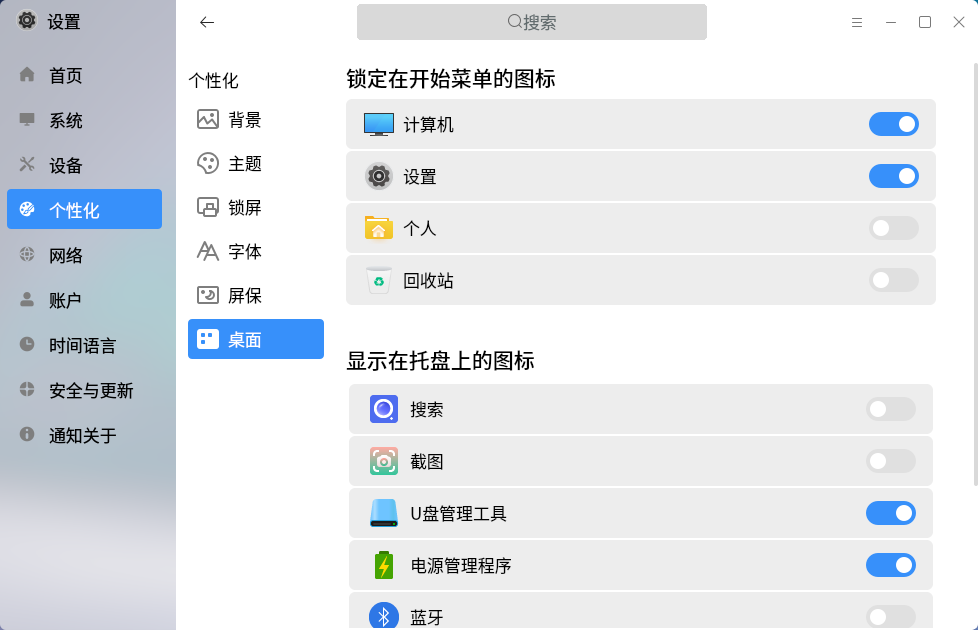
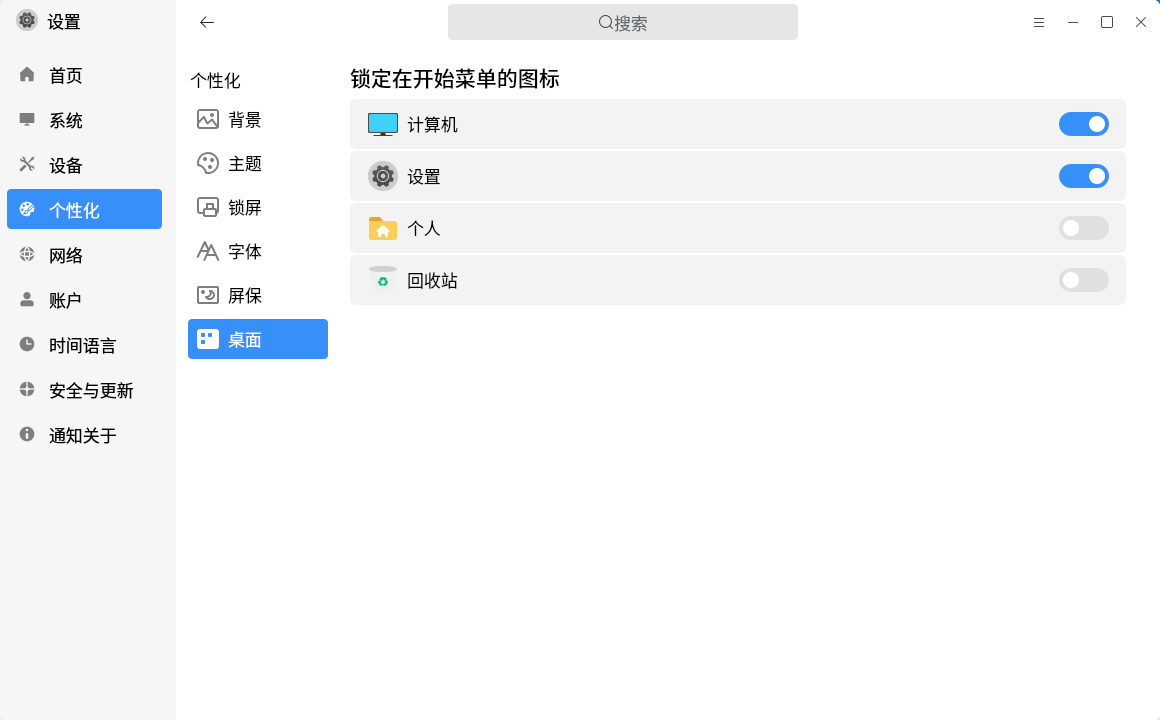
fix(User Manual): User Manual
Description: User Manual

Log: 更新部分用户手册的截图和内容

diff --git a/data/zh_CN/index.md b/data/zh_CN/index.md
@@ -42,13 +42,13 @@
 ![图 4 默认应用-big](image/default.png)
 
 ### 电 源
-- 提供平衡、节能、自定义模式可选
+- 提供通用选项用来进行基本设置
 
 ![图 5-1 系统电源设置-big](image/power.png)
 
-- 在通用设置中可以设置电源图标显示或者隐藏
+- 当机器存在电池时，可进行电池节能计划的设置
 
-- 在“自定义”模式下，用户可设置系统在空闲多少时间后，挂起和关闭显示器
+- 电源计划中，提供了平衡和节能两种模式用来设置
 
 ![图 5-2 自定义模式](image/power-custom.png)
 
@@ -288,7 +288,7 @@ Tips：系统快捷键不允许修改。
 ![图 38 屏保设置-big](image/screensaver.png)
 
 ### 桌 面
-设置锁定在开始菜单和托盘上的图标。
+设置锁定在开始菜单的图标。
 
 ![图 39 桌面设置-big](image/desktop.png)
 <br>
